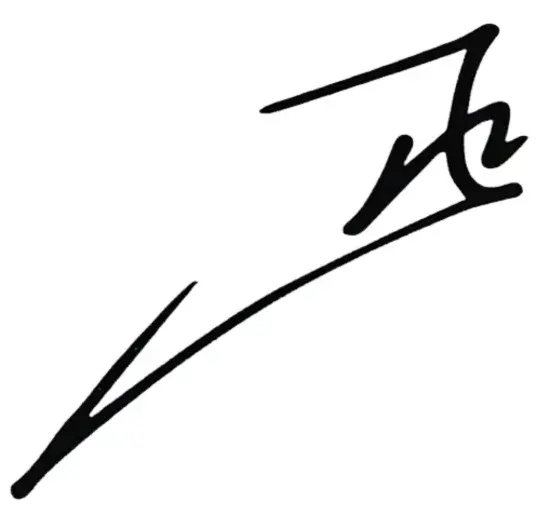
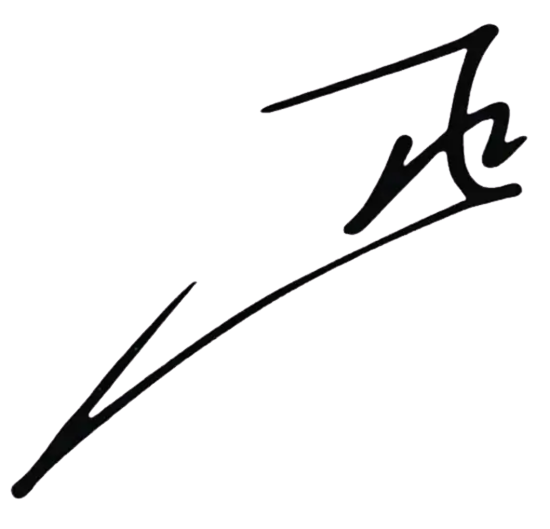
feat: adding signature

diff --git a/src/pages/Member/index.jsx b/src/pages/Member/index.jsx
@@ -1,8 +1,9 @@
-import React, { useEffect, useState } from 'react'
+import React, { useContext, useEffect, useState } from 'react'
 import { useParams } from 'react-router-dom'
 import { useTranslation } from 'react-i18next'
 import styles from './Member.module.css'
 import { translateBirthDate, translateCuriosites } from './lib'
+import { ThemeContext } from '../../contexts'
 import { Header } from './components/Header'
 import Footer from '../../components/Footer'
 import VideoCarousel from '../../components/VideoCarousel'
@@ -13,6 +14,7 @@ import jakops from '../../mock/member_easter_egg.json';
 
 export default function Member() {
   const { t } = useTranslation();
+  const { theme } = useContext(ThemeContext);
   const { i18n } = useTranslation('Home');
   let { memberId } = useParams();
   const member = memberId < 7 ? members[Number(memberId)] : jakops;
@@ -35,15 +37,25 @@ export default function Member() {
 
   return (
     <div className={styles.container}>
-      <Header title={`This is ${member.iconName}`} signature={member.signature} />
+      <Header title={`This is ${member.iconName}`} />
 
       <div className={mobileMode ? styles.contentMobile : styles.content}>
         <div className={!mobileMode ? styles.infoContainer : undefined}>
-          <img
-            src={`/members/${member.name}/cover.jpg`}
-            className={mobileMode ? styles.coverMobile : styles.cover}
-            alt={member.name}
-          />
+          <div className={styles.imageContainer}>
+            {member.name !== 'jakops' &&
+              <img
+                src={`/members/${member.name}/signature-${mobileMode ? theme : 'dark'}.png`}
+                className={mobileMode ? styles.signatureMobile : styles.signature}
+                alt={`Assinatura da integrante`}
+              />
+            }
+            <img
+              src={`/members/${member.name}/cover.jpg`}
+              className={mobileMode ? styles.coverMobile : styles.cover}
+              alt={member.name}
+            />
+          </div>
+
           <span className={styles.textContainer}>
             <div>
               <h1 className={styles.title}>{member.fullName}</h1>

diff --git a/src/pages/Member/components/Header/index.jsx b/src/pages/Member/components/Header/index.jsx
@@ -4,7 +4,7 @@ import { useNavigate } from 'react-router-dom'
 import styles from './Header.module.css'
 import Button from '../../../../components/Button'
 
-export const Header = ({ title, signature }) => {
+export const Header = ({ title }) => {
   const navigation = useNavigate()
 
   return (
@@ -13,14 +13,6 @@ export const Header = ({ title, signature }) => {
         <ArrowIcon className={styles.icon} fontSize='large' />
       </Button>
       <h1 className={styles.text}>{title}</h1>
-
-      {signature &&
-        <img
-          src={signature + "-light.png"}
-          className={styles.signature}
-          alt={`Assinatura da integrante`}
-        />
-      }
     </div>
   )
 }

diff --git a/src/pages/Member/Member.module.css b/src/pages/Member/Member.module.css
@@ -16,6 +16,10 @@
   display: flex;
 }
 
+.imageContainer {
+  position: relative;
+}
+
 .cover {
   height: 507px;
   border-radius: 10px;
@@ -28,9 +32,26 @@
   margin-top: -70px;
 }
 
+.signature {
+  position: absolute;
+  height: 180px;
+  width: 180px;
+  left: 0;
+  top: 260px;
+}
+
+.signatureMobile {
+  position: absolute;
+  height: 150px;
+  width: 150px;
+  right: 20px;
+  bottom: 0px;
+}
+
 .textContainer {
   margin: 40px;
   overflow: auto;
+  width: 100%;
 }
 
 .title {

diff --git a/src/pages/Member/components/Header/Header.module.css b/src/pages/Member/components/Header/Header.module.css
@@ -12,14 +12,6 @@
   margin-right: 20px;
 }
 
-.signature {
-  position: absolute;
-  right: 40px;
-  top: 20px;
-  height: 150px;
-  width: 150px;
-}
-
 .text {
   color: var(--text-secondary-color);
 }
